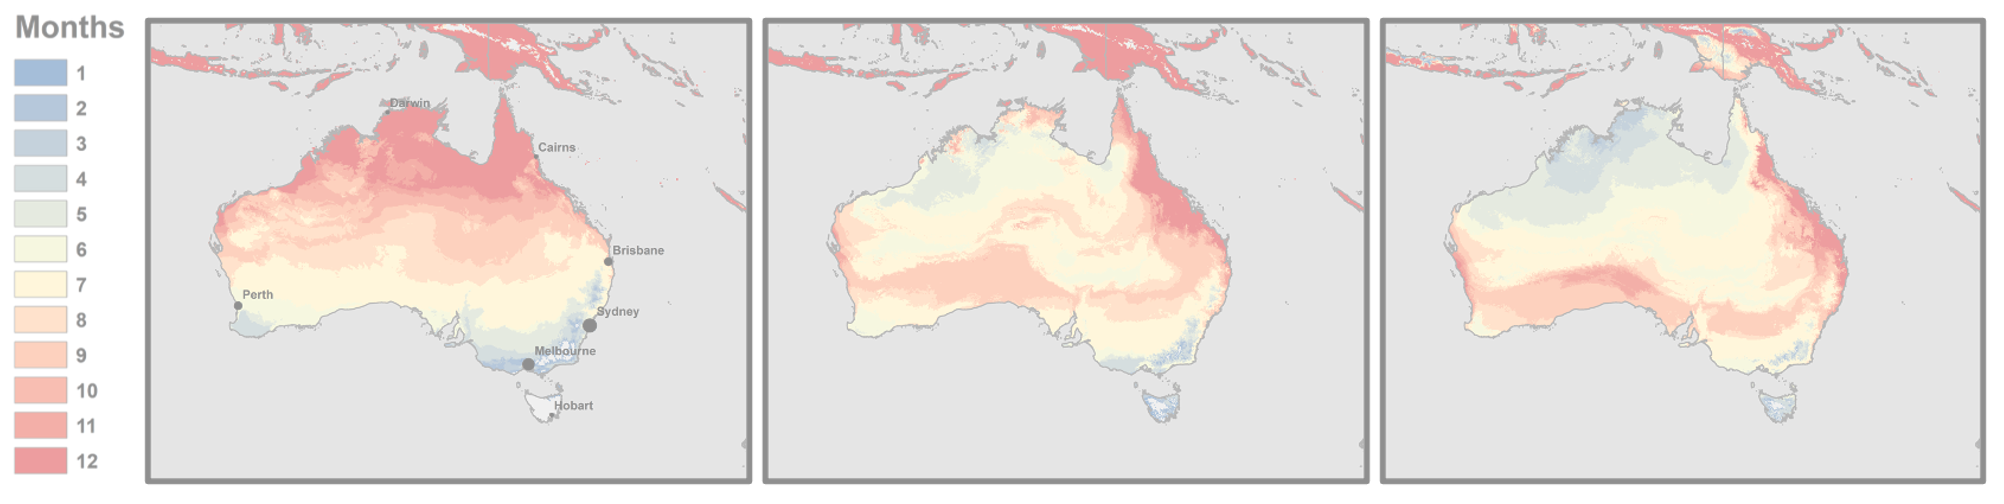
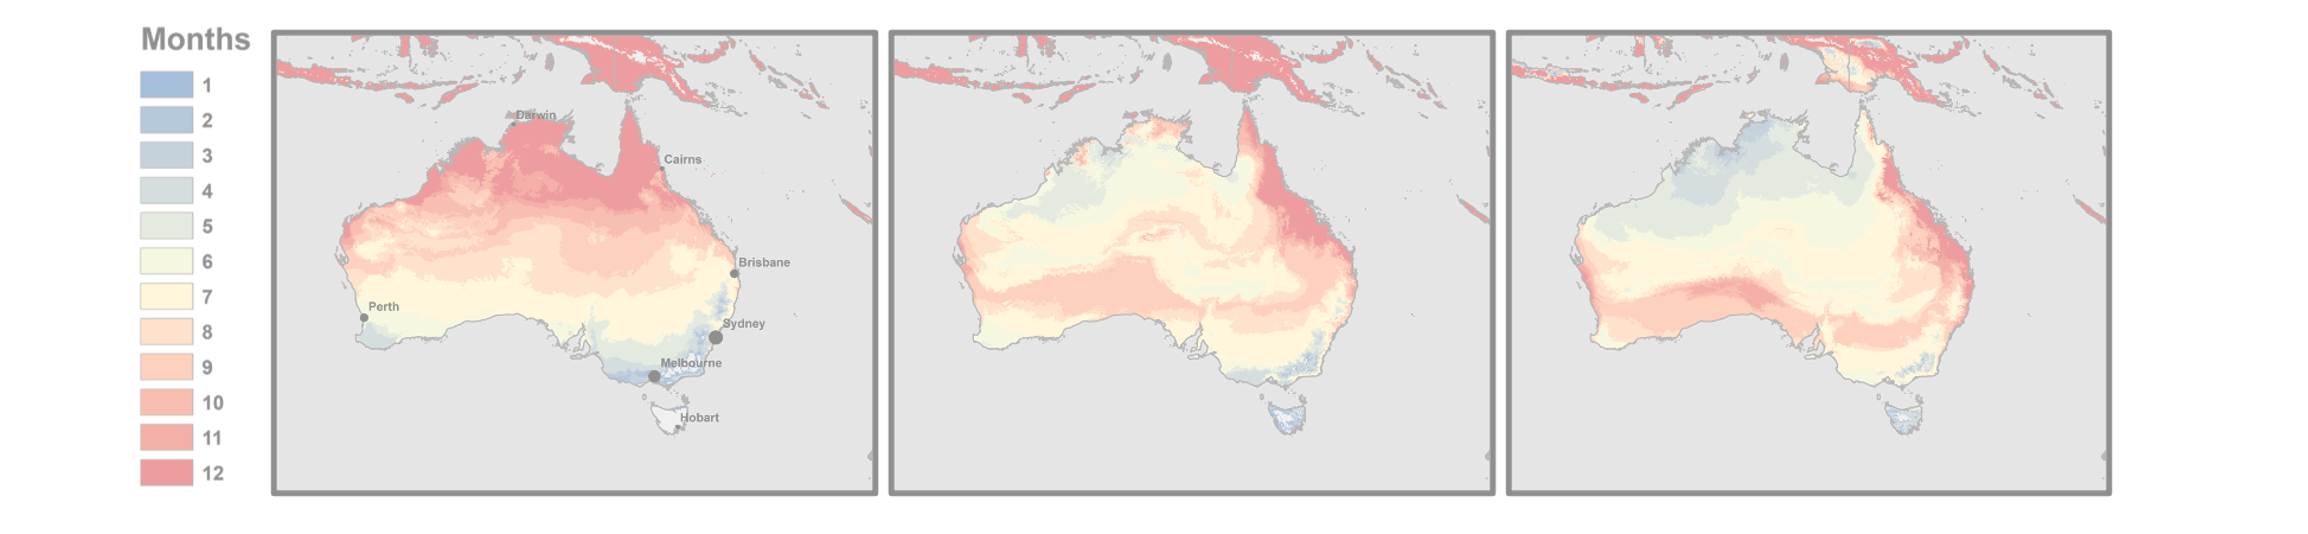
updated images

diff --git a/index.md b/index.md
@@ -1,7 +1,7 @@
 ---
 title: 
 layout: page
-feature_image: "https://mshocket.github.io/img/ClimateMozzie.jpg"
+feature_image: "https://mshocket.github.io/img/ClimateMozzieCrop2.jpg"
 feature_text: |
   ## Marta Shocket, PhD
 ---
